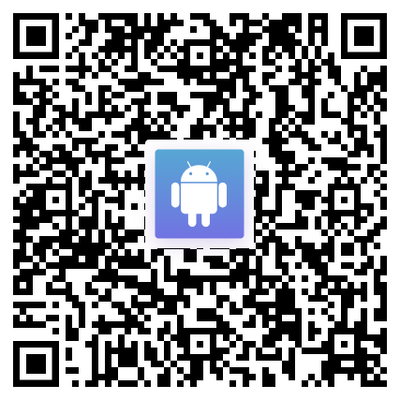
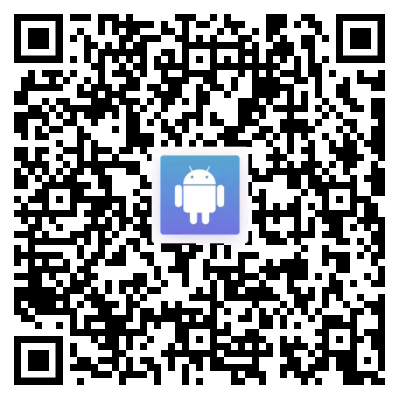
android download& fees
1, QR code android
2, download link android
3, change 10000000 to unlimited in fees page

diff --git a/app-download.php b/app-download.php
@@ -27,7 +27,7 @@ get_header();
 															<div id="stores" class="app-store">
 																	<a href="https://apps.apple.com/ca/app/virgocx-buy-sell-bitcoin/id1480501048"><img class="app_store_download" data-value="app_store" src="<?= get_template_directory_uri() ?>/img/app_buttons/app_store.png" alt="images not found" /></a>
 																	<a href="https://play.google.com/store/apps/details?id=ca.virgocx.exchange"><img class="play_store_download" data-value="play_store" src="<?= get_template_directory_uri() ?>/img/app_buttons/play_store.png" alt="images not found" /></a>
-																	<a href="https://virgocx.s3.ca-central-1.amazonaws.com/prod/2021/11/07/eae76c4f3c4145f6b9681f44aa5c92e9.apk"><img class="android_download" data-value="android" src="<?= get_template_directory_uri() ?>/img/app_buttons/android.png" alt="images not found" /></a>
+																	<a href="https://virgocx.s3.ca-central-1.amazonaws.com/prod/2021/12/30/861643257275474bbae73bc7a7cabe12.apk"><img class="android_download" data-value="android" src="<?= get_template_directory_uri() ?>/img/app_buttons/android.png" alt="images not found" /></a>
 															</div>
 
 															<img id="app_qr_image" src="<?= get_template_directory_uri() ?>/img/qr_codes/app_store.png" alt="images not found" /></a>

diff --git a/template-parts/app-qr.php b/template-parts/app-qr.php
@@ -4,7 +4,7 @@
 		<div id="stores" class="col-lg-5 col-md-5 app-store">
 				<a href="https://apps.apple.com/ca/app/virgocx-buy-sell-bitcoin/id1480501048"><img class="app_store_download" data-value="app_store" src="<?= get_template_directory_uri() ?>/img/app_buttons/app_store.png" alt="images not found" /></a>
 				<a href="https://play.google.com/store/apps/details?id=ca.virgocx.exchange"><img class="play_store_download" data-value="play_store" src="<?= get_template_directory_uri() ?>/img/app_buttons/play_store.png" alt="images not found" /></a>
-				<a href="https://virgocx.s3.ca-central-1.amazonaws.com/prod/2021/11/07/eae76c4f3c4145f6b9681f44aa5c92e9.apk"><img class="android_download" data-value="android" src="<?= get_template_directory_uri() ?>/img/app_buttons/android.png" alt="images not found" /></a>
+				<a href="https://virgocx.s3.ca-central-1.amazonaws.com/prod/2021/12/30/861643257275474bbae73bc7a7cabe12.apk"><img class="android_download" data-value="android" src="<?= get_template_directory_uri() ?>/img/app_buttons/android.png" alt="images not found" /></a>
 		</div>
 
 		<img class="col-lg-5 col-md-7 col-sm-7" id="app_qr_image" src="<?= get_template_directory_uri() ?>/img/qr_codes/app_store.png" alt="images not found" /></a>

diff --git a/fees.php b/fees.php
@@ -558,7 +558,7 @@ get_header();
                         const rowContent = entries.reduce(function (acc, entry) {
                             let maximum = entry.maximum;
                             if (typeof maximum !== 'string') {
-                                maximum = maximum === 99999 ? 'Unlimited' : '$' + entry.maximum;
+                                maximum = maximum >= 999999 ? 'Unlimited' : '$' + entry.maximum;
                             }
 
                             let feeContent = 'Free';
@@ -624,7 +624,7 @@ get_header();
                             let maximum = entry.maximum;
                             let minimum = entry.minimum;
                             if (typeof maximum !== 'string') {
-                                maximum = maximum === 99999 ? 'Unlimited' : '$' + entry.maximum;
+                                maximum = maximum >= 999999 ? 'Unlimited' : '$' + entry.maximum;
                             }
 
                             if (typeof entry.minimum !== 'string') {

diff --git a/front-page.php b/front-page.php
@@ -730,7 +730,7 @@ if ($totalNumber === 1): ?>
                                         class="play_store_download" data-value="play_store"
                                         src="<?= get_template_directory_uri() ?>/img/app_buttons/play_store.png"
                                         alt="images not found"/></a>
-                            <a href="https://virgocx.s3.ca-central-1.amazonaws.com/prod/2021/11/07/eae76c4f3c4145f6b9681f44aa5c92e9.apk"><img
+                            <a href="https://virgocx.s3.ca-central-1.amazonaws.com/prod/2021/12/30/861643257275474bbae73bc7a7cabe12.apk"><img
                                         class="android_download" data-value="android"
                                         src="<?= get_template_directory_uri() ?>/img/app_buttons/android.png"
                                         alt="images not found"/></a>

diff --git a/footer-otc.php b/footer-otc.php
@@ -153,7 +153,7 @@
                             </li>
                             <li class="app-download">
                                 <a class="android"
-                                   href="https://virgocx.s3.ca-central-1.amazonaws.com/prod/2021/11/07/eae76c4f3c4145f6b9681f44aa5c92e9.apk"
+                                   href="https://virgocx.s3.ca-central-1.amazonaws.com/prod/2021/12/30/861643257275474bbae73bc7a7cabe12.apk"
                                    target="_blank">
                                     <div class="text">
                                         <span data-translate="footer_App_Android1"></span>

diff --git a/footer.php b/footer.php
@@ -135,7 +135,7 @@
 																	</a>
 															</li>
 															<li class="app-download">
-																	<a class="android" href="https://virgocx.s3.ca-central-1.amazonaws.com/prod/2021/11/07/eae76c4f3c4145f6b9681f44aa5c92e9.apk" target="_blank">
+																	<a class="android" href="https://virgocx.s3.ca-central-1.amazonaws.com/prod/2021/12/30/861643257275474bbae73bc7a7cabe12.apk" target="_blank">
 																		<div class="text">
 																			<span data-translate="footer_App_Android1"></span>
 																			<span class="highlight" data-translate="footer_App_Android2"></span>
